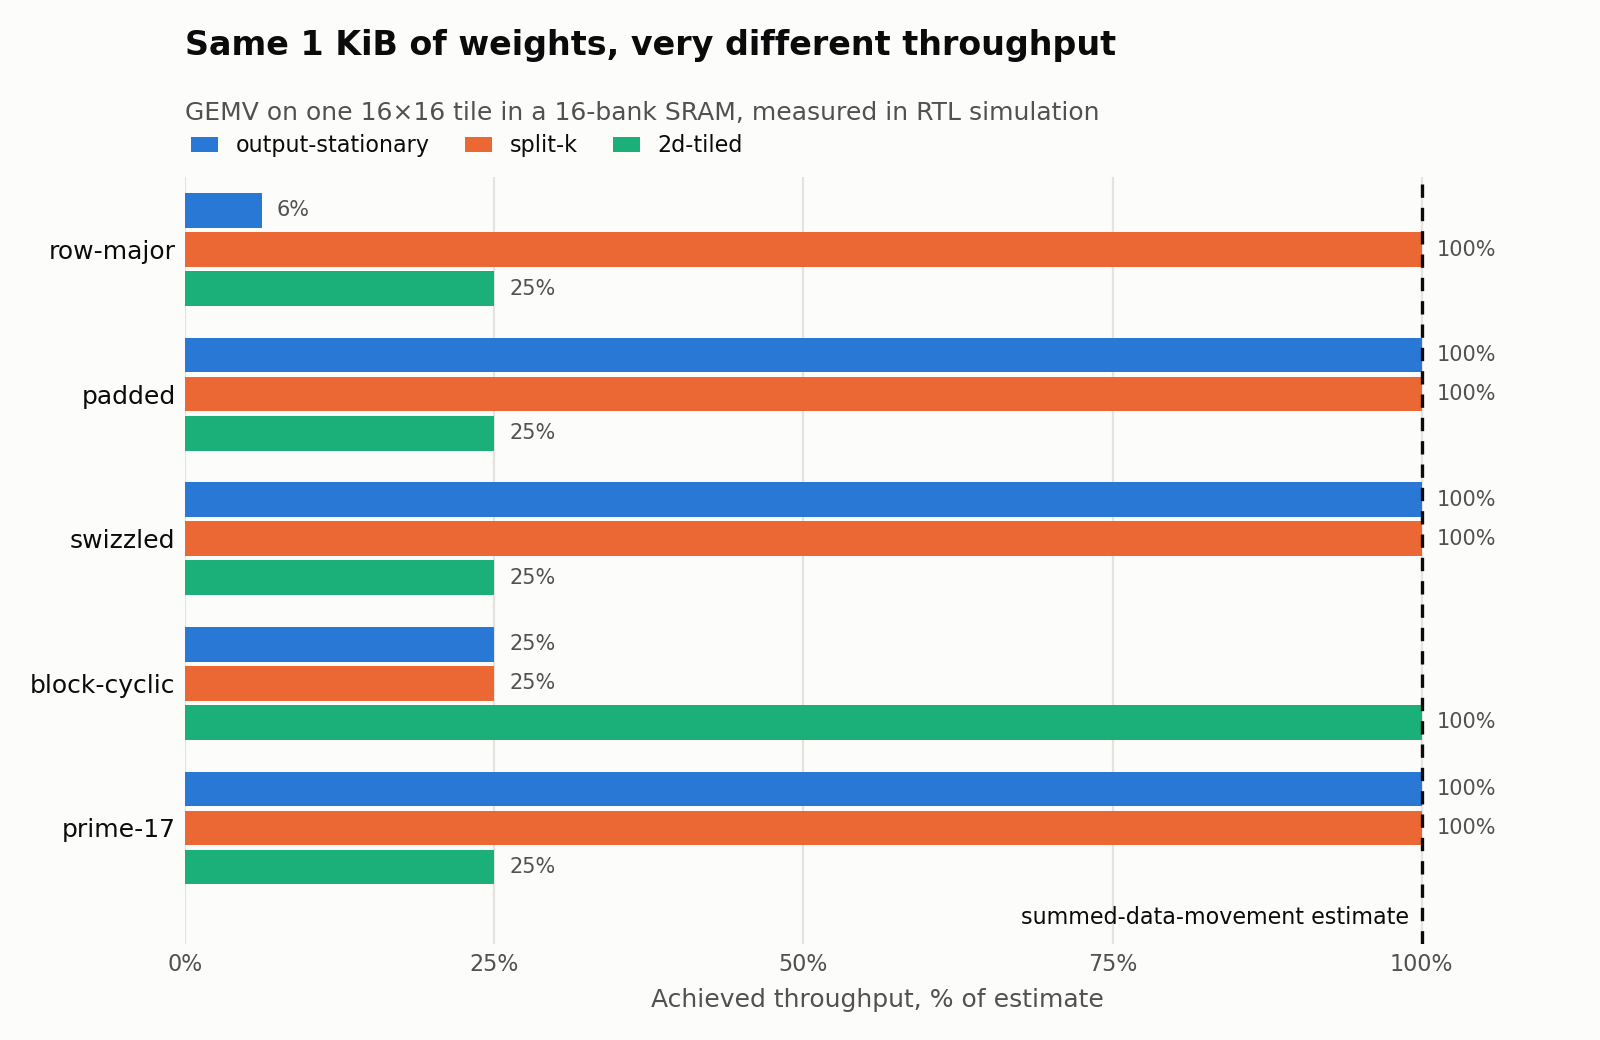
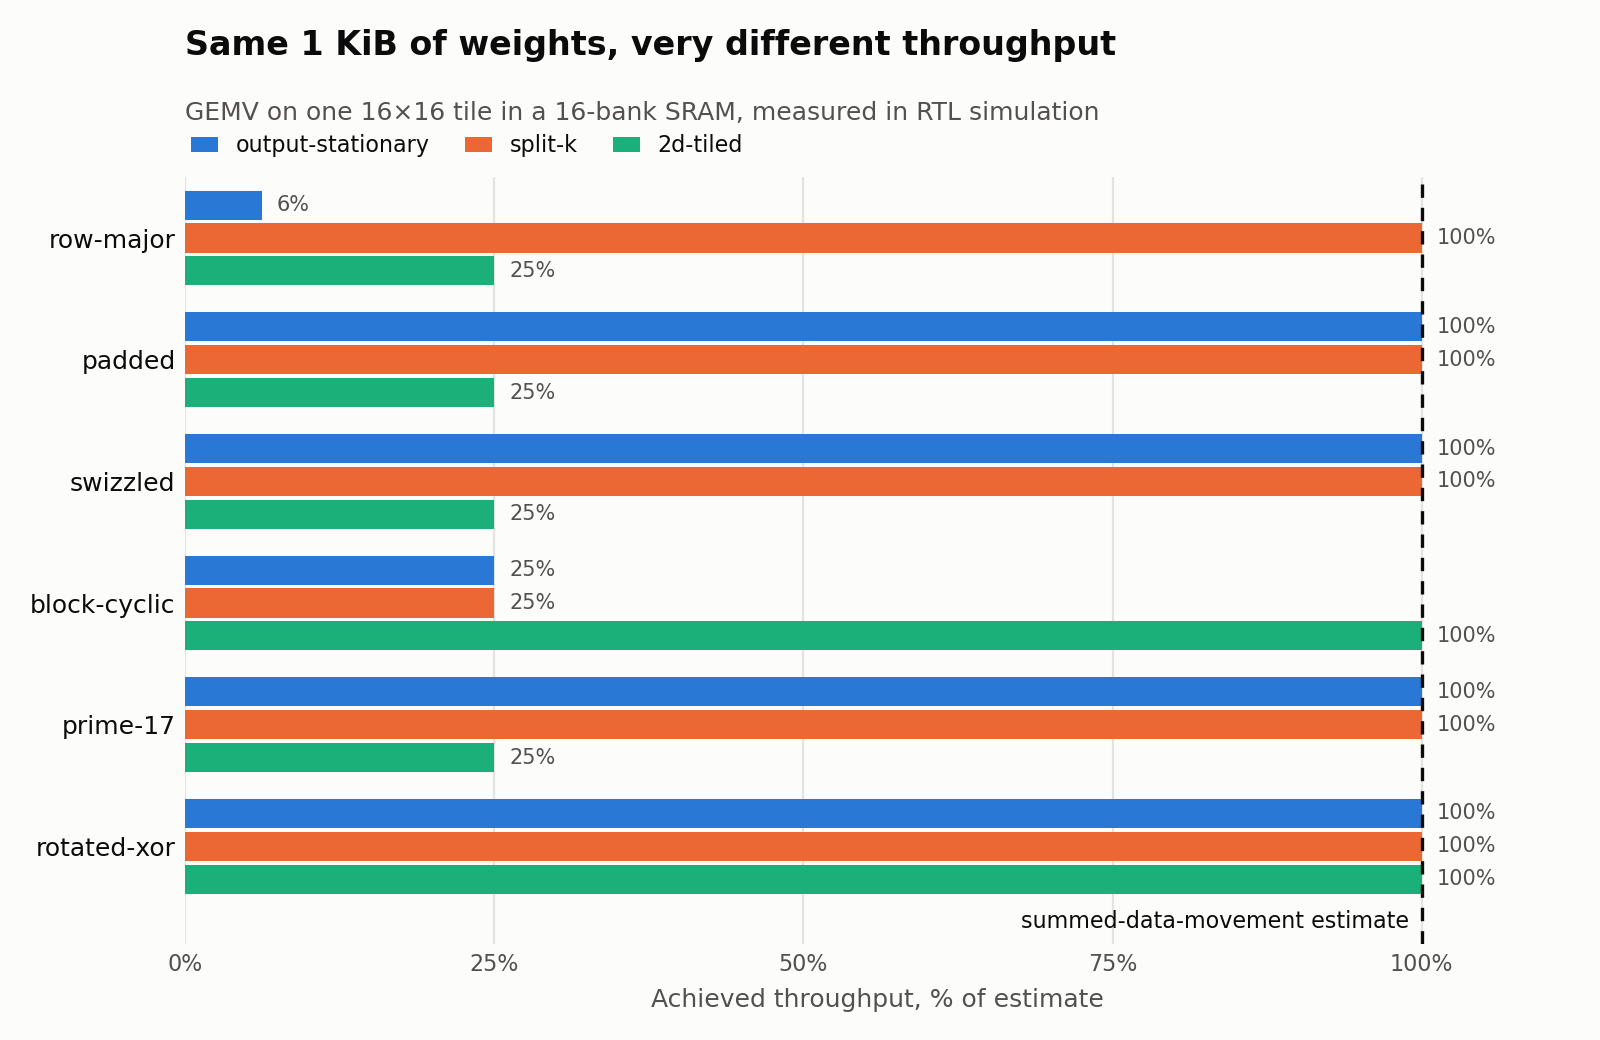
Add rotated XOR swizzle found by the search

diff --git a/gen.py b/gen.py
@@ -18,6 +18,7 @@ LAYOUTS = {
     "swizzled":  (lambda r, c: N * r + c,       "xor"),
     "block-cyclic": (lambda r, c: N * r + c,    "block"),
     "prime-17":  (lambda r, c: N * r + c,       "mod17"),
+    "rotated-xor": (lambda r, c: N * r + c,     "rotxor"),
 }
 
 BANK_SELECT = {
@@ -25,6 +26,7 @@ BANK_SELECT = {
     "xor":   lambda a: (a & 0xF) ^ ((a >> 4) & 0xF),
     "block": lambda a: (((a >> 4) & 0x3) << 2) | (a & 0x3),
     "mod17": lambda a: a % 17,
+    "rotxor": lambda a: (a & 0xF) ^ ((((a >> 4) & 0x3) << 2) | ((a >> 6) & 0x3)),
 }
 MODE = {name: i for i, name in enumerate(BANK_SELECT)}
 
